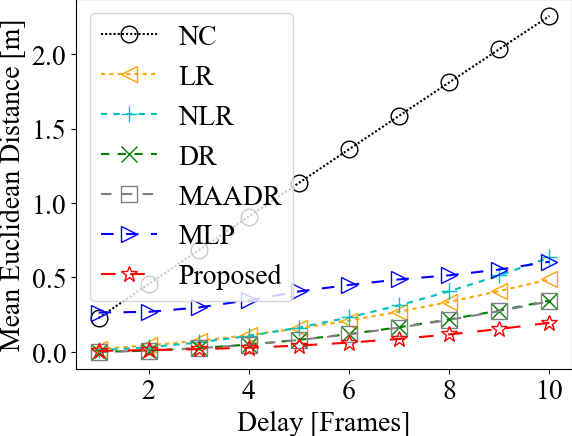
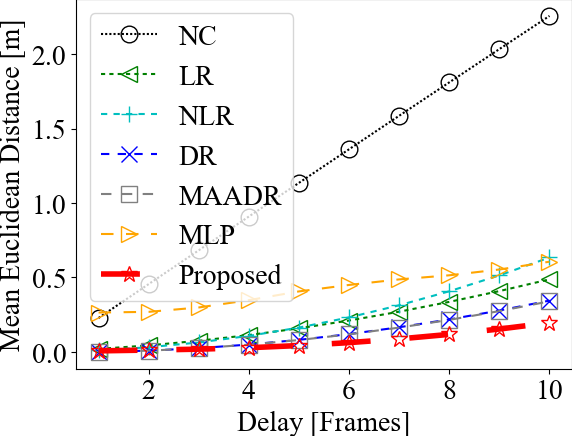
MED upload

diff --git a/Unity_MED/mk_graph/mk_DR.py b/Unity_MED/mk_graph/mk_DR.py
@@ -83,13 +83,14 @@ for motion in motions:
     delay = np.arange(1, 11)
 
     p1 = plt.plot(delay, delay_diff, linestyle = "--", dashes = (1, 1), marker=markers[0], color = colors[6], markerfacecolor = "None", ms = marker_size)
-    p2 = plt.plot(delay, lr_diff, linestyle = "--", dashes = (2, 2), marker=markers[4], color = "orange", markerfacecolor = "None", ms = marker_size)
+    # p2 = plt.plot(delay, lr_diff, linestyle = "--", dashes = (2, 2), marker=markers[4], color = "orange", markerfacecolor = "None", ms = marker_size)
+    p2 = plt.plot(delay, lr_diff, linestyle = "--", dashes = (2, 2), marker=markers[4], color = colors[2], markerfacecolor = "None", ms = marker_size)
     p3 = plt.plot(delay, nlr_diff, linestyle = "--", dashes = (3, 3), marker='+', color = colors[3], markerfacecolor = "None", ms = marker_size)
-    p4 = plt.plot(delay, dr_diff, linestyle = "--", dashes = (4, 4), marker='x', color = colors[2], markerfacecolor = "None", ms = marker_size)
+    p4 = plt.plot(delay, dr_diff, linestyle = "--", dashes = (4, 4), marker='x', color = colors[1], markerfacecolor = "None", ms = marker_size)
     p5 = plt.plot(delay, maadr_diff, linestyle = "--", dashes = (5, 5), marker=markers[2], color = "grey", markerfacecolor = "None", ms = marker_size)
-    p6 = plt.plot(delay, mlp_diff, linestyle = "--", dashes = (6, 6), marker=markers[3], color = colors[1], markerfacecolor = "None", ms = marker_size)
-    p7 = plt.plot(delay, two_mlp_diff, linestyle = "--", dashes = (7, 7), marker='*', color = colors[0], markerfacecolor = "None", ms = marker_size)
-    # p7 = plt.plot(delay, two_mlp_diff, linestyle = "--", dashes = (7, 7), marker='*', color = colors[0], markerfacecolor = "None", ms = marker_size, lw = 4)
+    p6 = plt.plot(delay, mlp_diff, linestyle = "--", dashes = (6, 6), marker=markers[3], color = "orange", markerfacecolor = "None", ms = marker_size)
+    # p7 = plt.plot(delay, two_mlp_diff, linestyle = "--", dashes = (7, 7), marker='*', color = colors[0], markerfacecolor = "None", ms = marker_size)
+    p7 = plt.plot(delay, two_mlp_diff, linestyle = "--", dashes = (7, 7), marker='*', color = colors[0], markerfacecolor = "None", ms = marker_size, lw = 4)
 
     # plt.xlabel("delay[F] (20 ms/frame)")
     plt.xlabel("Delay [Frames]")
